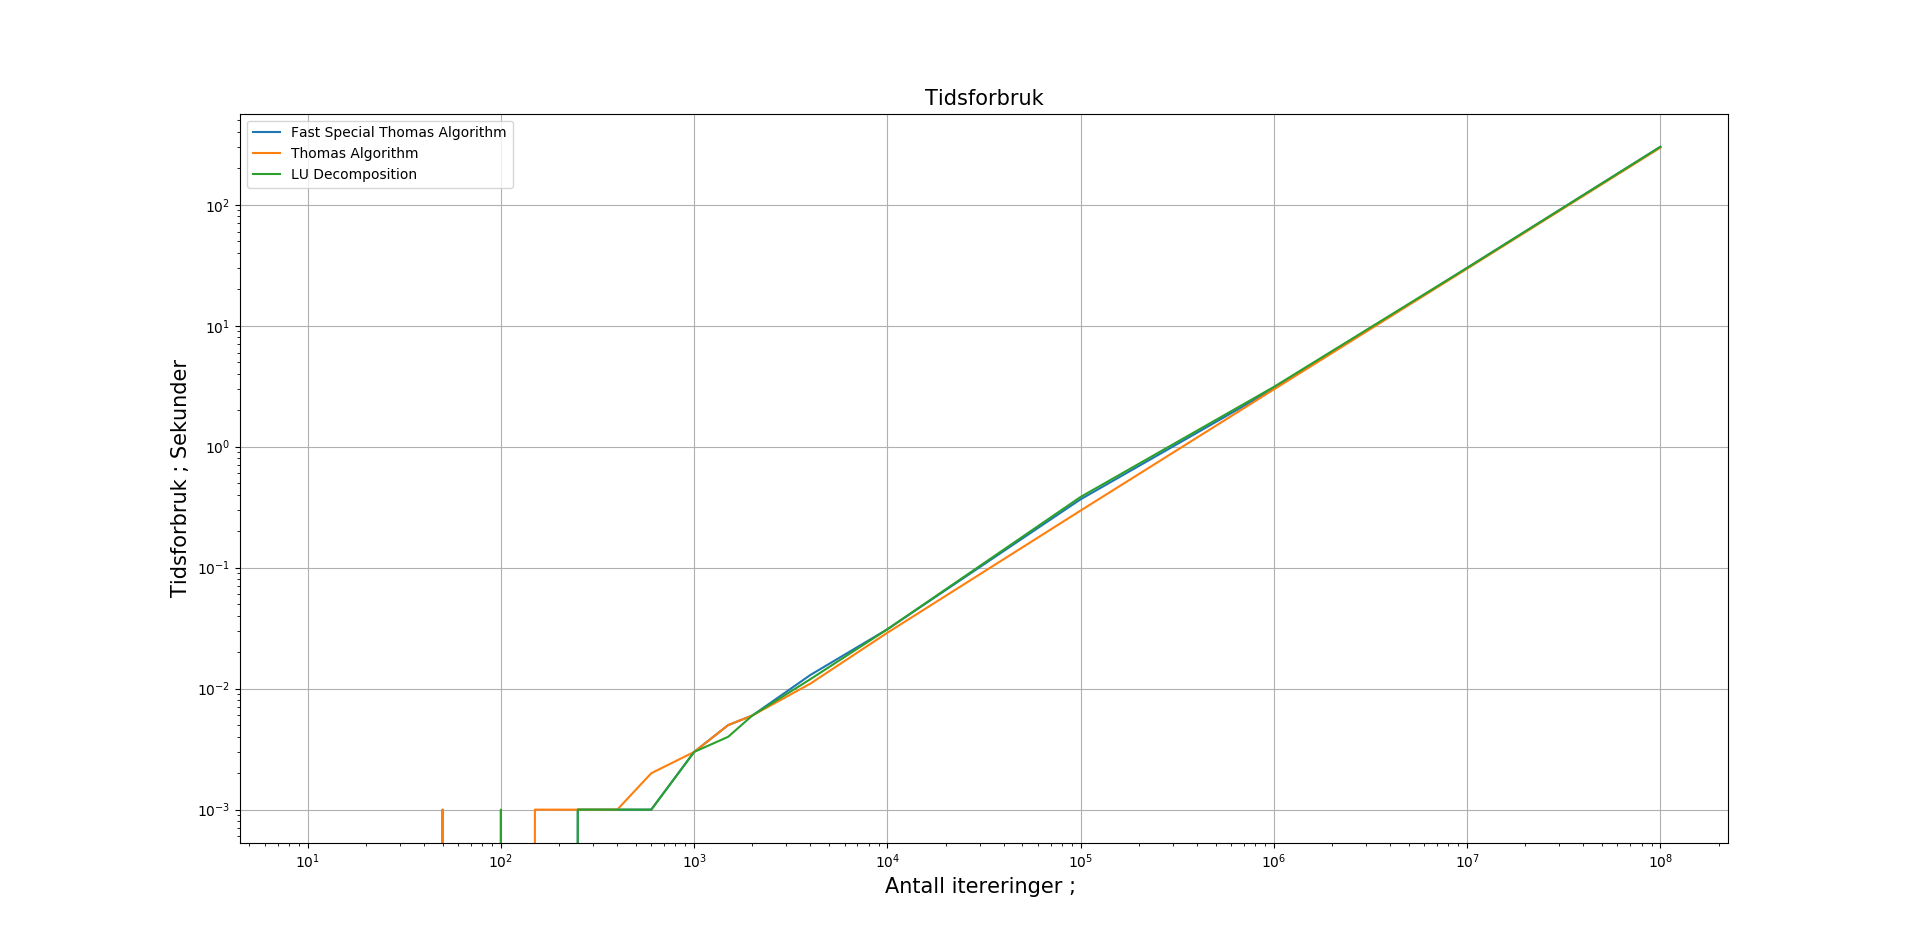
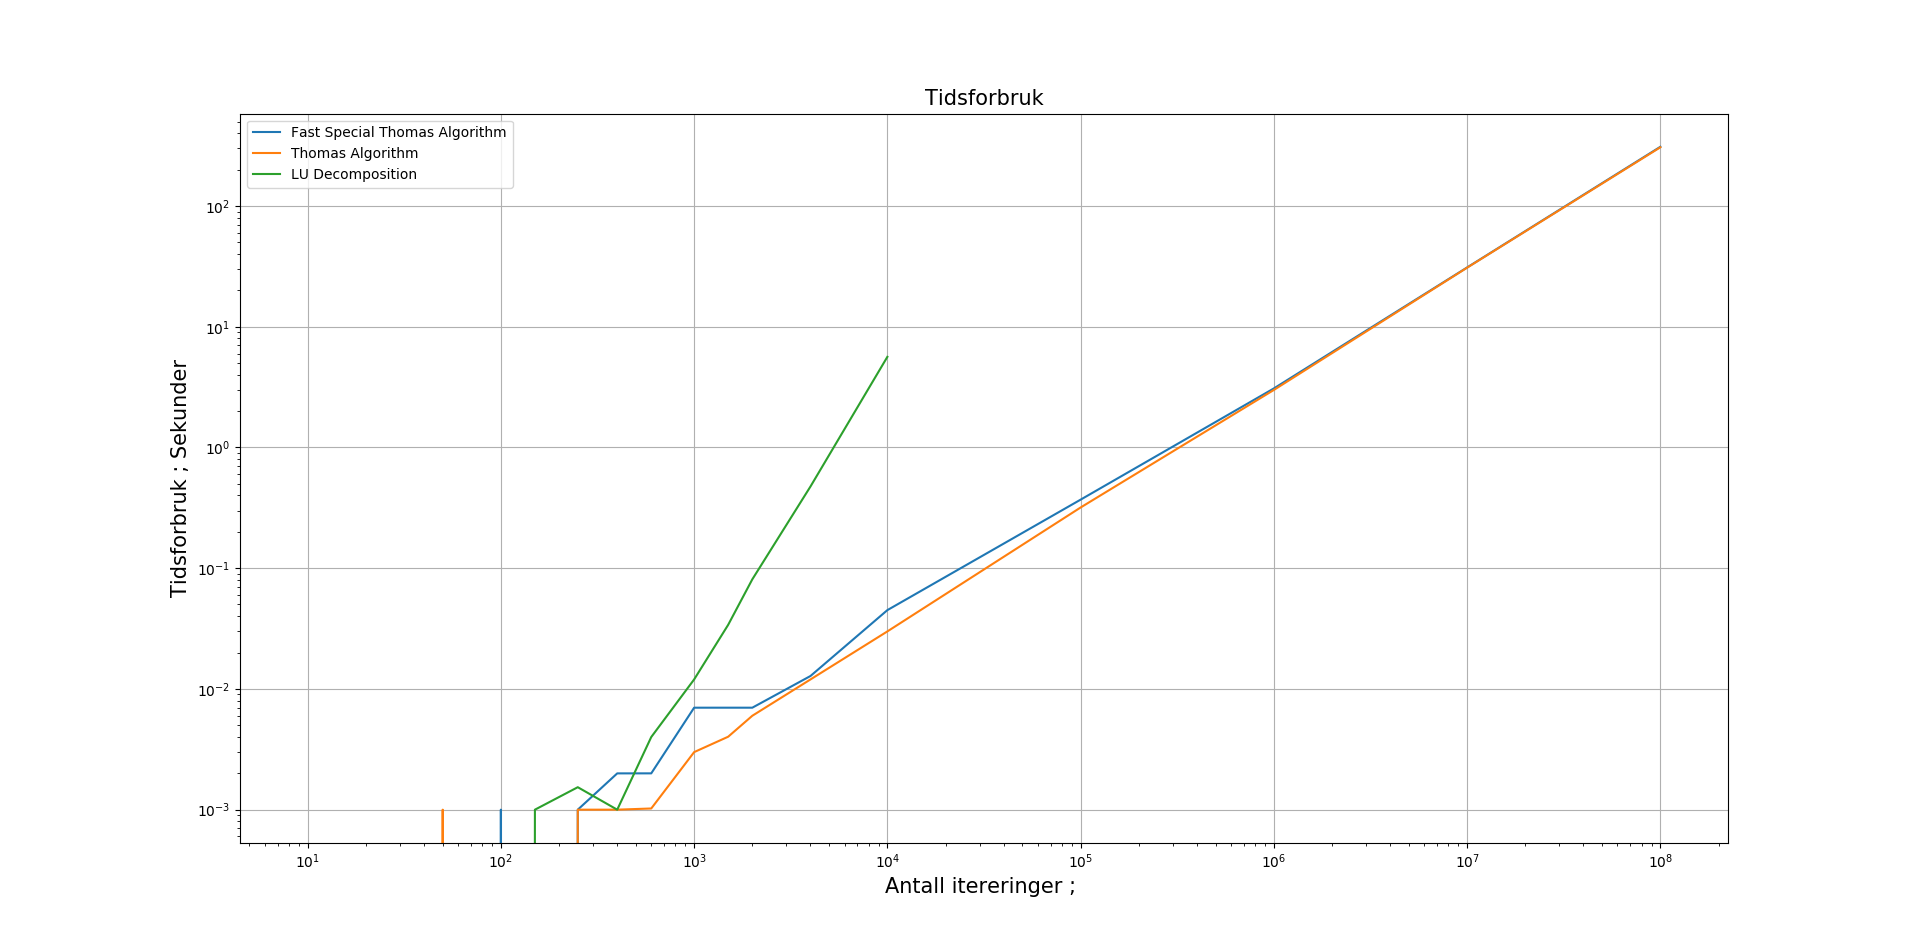
updated plots after a bug.

diff --git a/numerical_precision.py b/numerical_precision.py
@@ -35,8 +35,8 @@ for i in range(n-1):
 t_lud = []
 e_lud = []
 p_lud = []
-for i in range(n-1):
-    approximation = FastSpecialThomasAlgorithm(N[i])
+for i in range(n-5):
+    approximation = LUDecomposition(N[i])
     t_lud.append(approximation.time())
     e_lud.append(approximation.error())
     p_lud.append(approximation._error())
@@ -48,7 +48,7 @@ H = 1/N
 
 plt.plot(N , t_fsta , label = "Fast Special Thomas Algorithm")
 plt.plot(N , t_ta , label = "Thomas Algorithm")
-plt.plot(N , t_lud , label = "LU Decomposition")
+plt.plot(N[:-4] , t_lud , label = "LU Decomposition")
 plt.legend()
 plt.grid()
 plt.xlabel("Antall itereringer ; ",size=15)
@@ -60,7 +60,7 @@ plt.show()
 
 plt.plot(H , e_ta , label = "Thomas Algorithm", marker = 7)#'caretdown')
 plt.plot(H , e_fsta , label = "Fast Special Thomas Algorithm", marker = 6)# 'caretop')
-plt.plot(H , e_lud , label = "LU Decomposition")
+plt.plot(H[:-4] , e_lud , label = "LU Decomposition",marker = 0)
 plt.legend()
 plt.grid()
 plt.xlabel("Stegstørrelse ; Meter",size=15)
@@ -72,7 +72,7 @@ plt.show()
 
 plt.plot(H , p_ta , label = "Thomas Algorithm", marker = 7)#'caretdown')
 plt.plot(H , p_fsta , label = "Fast Special Thomas Algorithm", marker = 6)# 'caretop')
-plt.plot(H , p_lud , label = "LU Decomposition")
+plt.plot(H[:-4] , p_lud , label = "LU Decomposition",marker = 0)
 plt.legend()
 plt.grid()
 plt.xlabel("Stegstørrelse ; Meter",size=15)
